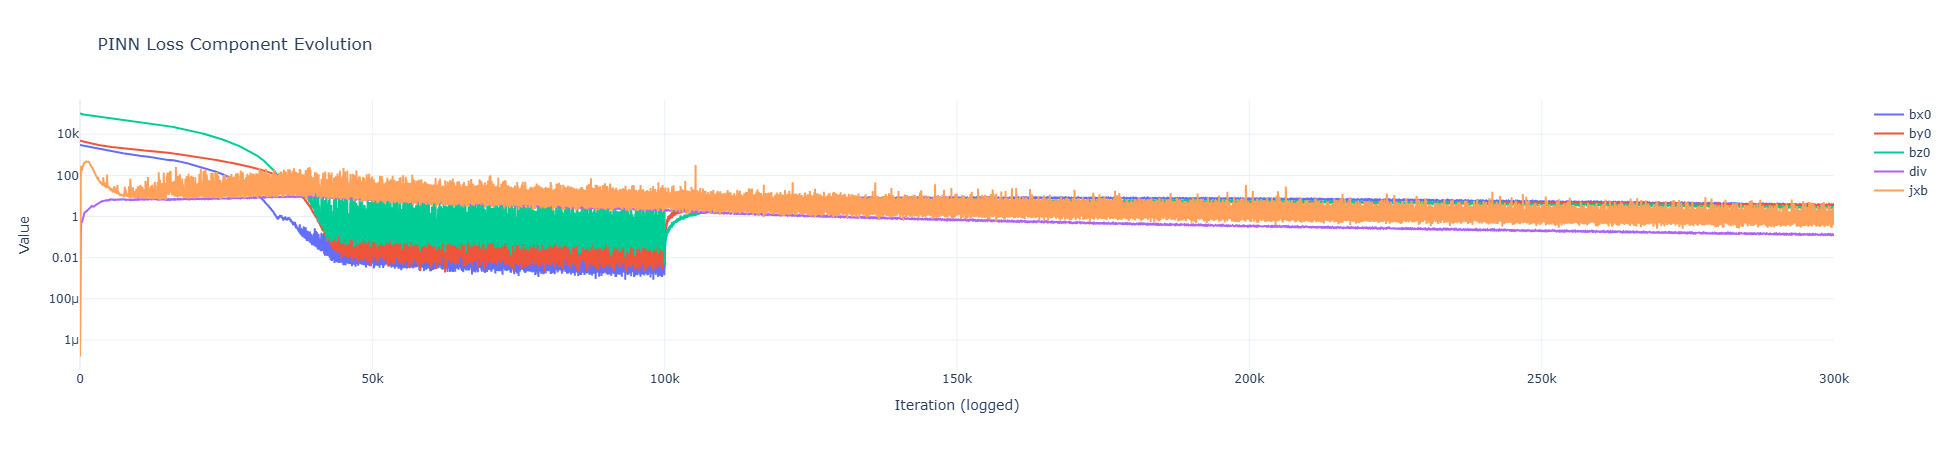
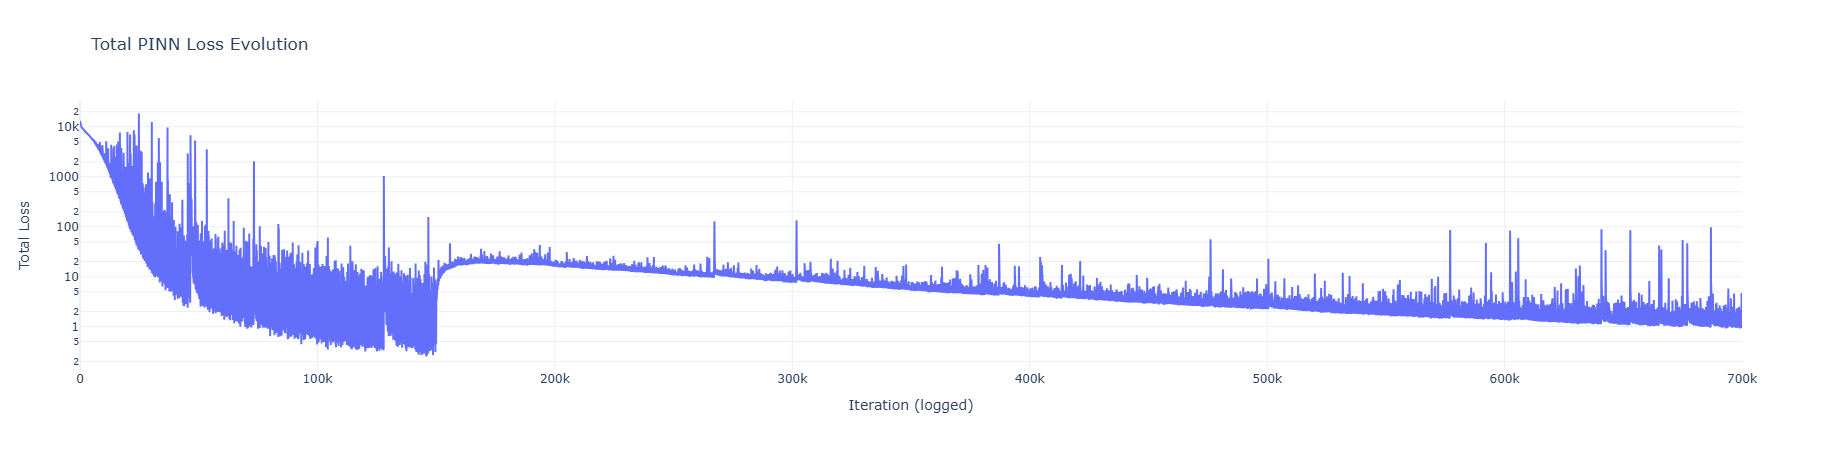
update

diff --git a/PINN_magneticfield/plot.py b/PINN_magneticfield/plot.py
@@ -88,15 +88,3 @@ def xyzmap_relative_error(train_b, ref_b, index, xyz_axis):
     plt.show()
     return relative_error_slice
 
-import os
-
-def remove_empty_dirs(root_dir):
-    for root, dirs, files in os.walk(root_dir, topdown=False):
-        for d in dirs:
-            path = os.path.join(root, d)
-            try:
-                if not os.listdir(path):  # 中身が空
-                    os.rmdir(path)
-                    print(f"Removed empty dir: {path}")
-            except OSError:
-                pass
